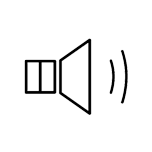
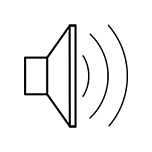
Ready for @3x resolution

diff --git a/README.md b/README.md
@@ -1,5 +1,14 @@
 # ARSpeechActivity
 
+[![Twitter](http://img.shields.io/badge/contact-@alexruperez-blue.svg?style=flat)](http://twitter.com/alexruperez)
+[![GitHub Issues](http://img.shields.io/github/issues/alexruperez/ARSpeechActivity.svg?style=flat)](http://github.com/alexruperez/ARSpeechActivity/issues)
+[![CI Status](http://img.shields.io/travis/alexruperez/ARSpeechActivity.svg?style=flat)](https://travis-ci.org/alexruperez/ARSpeechActivity)
+[![Version](https://img.shields.io/cocoapods/v/ARSpeechActivity.svg?style=flat)](http://cocoadocs.org/docsets/ARSpeechActivity)
+[![License](https://img.shields.io/cocoapods/l/ARSpeechActivity.svg?style=flat)](http://cocoadocs.org/docsets/ARSpeechActivity)
+[![Platform](https://img.shields.io/cocoapods/p/ARSpeechActivity.svg?style=flat)](http://cocoadocs.org/docsets/ARSpeechActivity)
+[![Analytics](https://ga-beacon.appspot.com/UA-55329295-1/ARSpeechActivity/readme?pixel)](https://github.com/igrigorik/ga-beacon)
+
+
 `ARSpeechActivity` is a `UIActivity` subclass that provides a "Read" action to a `UIActivityViewController`.
 
 ![ARSpeechActivity screenshot](https://raw.github.com/alexruperez/ARSpeechActivity/master/screenshot.png "ARSpeechActivity screenshot")
